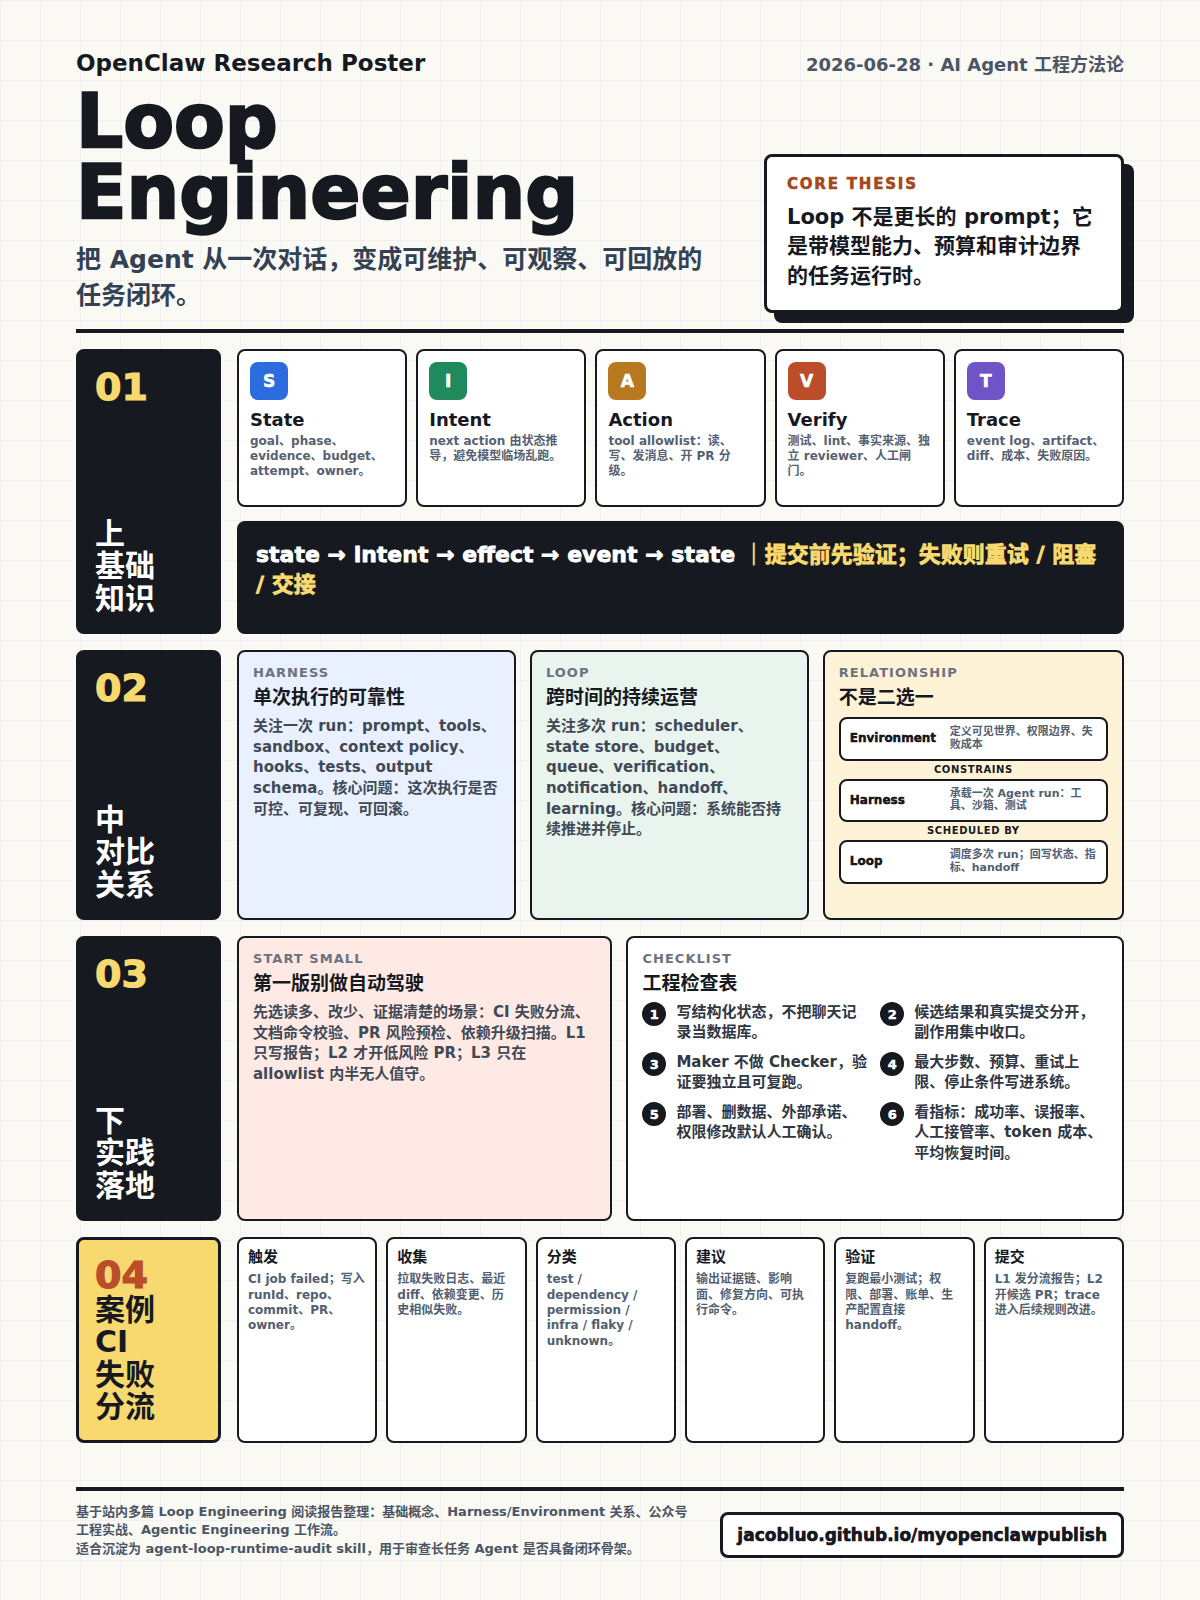
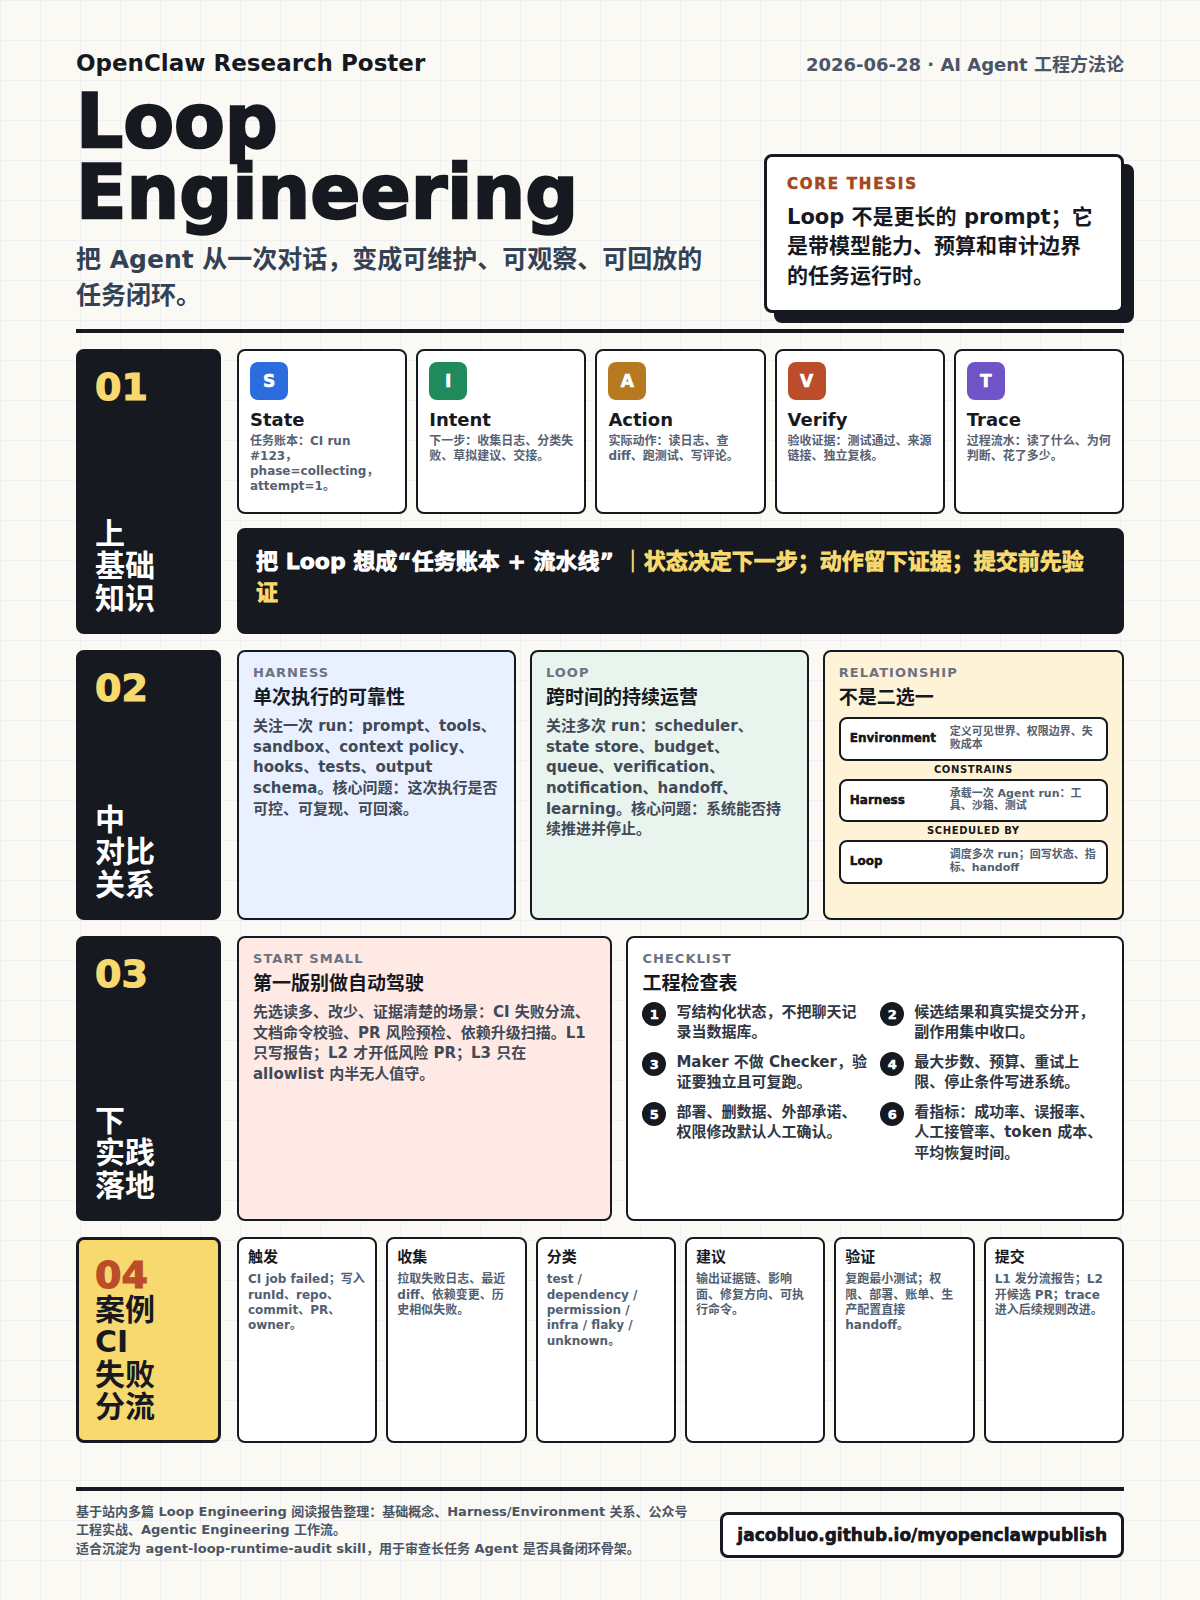
Clarify Loop poster basics

Changed region(s): [[0.185, 0.25, 0.9558, 0.375]]

diff --git a/posters/loop-engineering-poster.html b/posters/loop-engineering-poster.html
@@ -470,13 +470,13 @@
               </div>
               <div class="band-body">
                 <div class="mini-flow">
-                  <div class="node"><div class="mark">S</div><strong>State</strong><span>goal、phase、evidence、budget、attempt、owner。</span></div>
-                  <div class="node"><div class="mark">I</div><strong>Intent</strong><span>next action 由状态推导，避免模型临场乱跑。</span></div>
-                  <div class="node"><div class="mark">A</div><strong>Action</strong><span>tool allowlist：读、写、发消息、开 PR 分级。</span></div>
-                  <div class="node"><div class="mark">V</div><strong>Verify</strong><span>测试、lint、事实来源、独立 reviewer、人工闸门。</span></div>
-                  <div class="node"><div class="mark">T</div><strong>Trace</strong><span>event log、artifact、diff、成本、失败原因。</span></div>
+                  <div class="node"><div class="mark">S</div><strong>State</strong><span>任务账本：CI run #123，phase=collecting，attempt=1。</span></div>
+                  <div class="node"><div class="mark">I</div><strong>Intent</strong><span>下一步：收集日志、分类失败、草拟建议、交接。</span></div>
+                  <div class="node"><div class="mark">A</div><strong>Action</strong><span>实际动作：读日志、查 diff、跑测试、写评论。</span></div>
+                  <div class="node"><div class="mark">V</div><strong>Verify</strong><span>验收证据：测试通过、来源链接、独立复核。</span></div>
+                  <div class="node"><div class="mark">T</div><strong>Trace</strong><span>过程流水：读了什么、为何判断、花了多少。</span></div>
                 </div>
-                <div class="equation">state → intent → effect → event → state <span>｜提交前先验证；失败则重试 / 阻塞 / 交接</span></div>
+                <div class="equation">把 Loop 想成“任务账本 + 流水线” <span>｜状态决定下一步；动作留下证据；提交前先验证</span></div>
               </div>
             </section>
 
